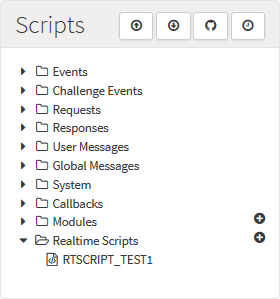
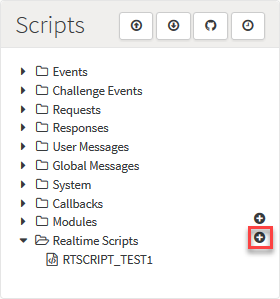
NEW UI Updates

Changed region(s): [[0.8571, 0.7525, 1.0, 0.8729]]

diff --git a/MARKDOWN/Documentation/Configurator/Segments.md b/MARKDOWN/Documentation/Configurator/Segments.md
@@ -9,26 +9,57 @@ src: /Documentation/Configurator/Segments.md
 
 Segments allow you to create partitions for different users and apply various rules to different areas of the platform. Segments offer you an extra dimension of flexibility for customizing player experience and behavior.
 
-## Example
+## Examples
 
-Let's suppose I have an international blockbuster game with players connecting from different parts of the World. In order to offer a more personalized experience for my players, I might want to segment players by region or country. I can create a segment based on country, with segment values of the countries my players are situated in. When added to such a segment, the players will receive a different experience. For example, each segment value (or country in this case) could have different values for virtual goods, the amount of awards they receive upon obtaining an achievement, or the rates of their 6 currencies that spread across their game. What about language? A much simpler and customizable method than Geo Locations would be to introduce a language segment. Based on the users segment values for a language segment, users could receive messages for new high scores, challenges, and team invitations all in their respective native languages, as well as customizing the name and descriptions of Leaderboards, Challenges, Achievements, and so on.
+Here's two example use cases where Segmentation comes in very useful:
 
-## Creating a Segment
+1. Let's suppose I have an international blockbuster game with players connecting from different parts of the World. In order to offer a more personalized experience for my players, I might want to segment players by region or country. I can create a Segment based on country, with Segment Values of the countries my players are situated in. When added to such a Segment, the players will receive a different experience. For example, each Segment Value (or country in this case) could have different values for virtual goods, the amount of awards they receive upon obtaining an achievement, or the rates of their 6 currencies that spread across their game.
+2. What about language? A much simpler and customizable method than Geo Locations would be to introduce a language Segment. Based on the user's Segment Values for a language Segment, users could receive messages for new high scores, challenges, and team invitations all in their respective native languages, as well as customizing the name and descriptions of Leaderboards, Challenges, Achievements, and so on.
+
+## Managing Segment Configurations
+
+To create and edit Segments, go to *Configurator > Segments* and select the *Segments* tab. Existing Segments are listed:
+
+![](img/Segments/7.png)
+
+You can use the following options (highlighted above):
+
+ * *Add* - Add a new Segment.
+ * ![](/img/icons/editicon.png) - Edit Segment.
+ * ![](/img/icons/deleteicon.png) - Delete Segment.
+
+## Creating a Segment and Adding Segment Values
 
 You can create and assign multiple segments, each with their own set of values.
 
-![](img/Segments/1.png)
+*1.* On the *Segments* tab, click *Add*. The page adjusts:
 
-Segments and their respective values can be set within the Segments area:
+![](img/Segments/8.png)
 
-![](img/Segments/2.png)
+*2.* Enter the details of the new Segment:
+* *Short Code* \- A mandatory field used to give the Segment a unique identifier for use elsewhere in the Portal and in Cloud Code.
+* *Name* \- A mandatory field used as an identifier to help find the Segment in the Portal.
+* *Description* \- A mandatory field which should be used to describe the Segment and explain its purpose.
 
+*3.* To add values to the Segment, under *Values* click *Add*.
 
-Not all Segments have to be set in this area. Segments and their values can be set on-the-fly using Cloud Code. For any segment type, a player can have a single value set, and you can set (or unset) these values via Cloud Code using _SparkPlayer.setSegmentValue(TYPE, VALUE)_ or find the current value of a segment they have, using _myPlayer.getSegmentValue("TYPE")_.
+*4.* Enter a *Short Code*, *Name*, and *Description* for each Segment value that you add:
+
+![](img/Segments/9.png)
+
+In this example, we've added 6 Values to our *Country* Segment.
+
+## Setting Segments Using Cloud Code
+
+Not all Segments have to be set in through the Configurator. Segments and their Values can be set on-the-fly using Cloud Code. For any Segment type, a player can have a single Value set, and you can set (or unset) these Values via Cloud Code using _SparkPlayer.setSegmentValue(TYPE, VALUE)_ or find the current Value of a Segment they have, using _myPlayer.getSegmentValue("TYPE")_.
 
 ![](img/Segments/3.png)
 
-Within the portal, you can segment your configuration to set different parameters for different segments. For example, you can have a different price for a virtual good for a particular segment or a different virtual good award and currency reward depending on the country segment you are set to:
+## Segmenting Configuration across the Portal
+
+Within the portal, you can segment your configuration to set different parameters for different Segments. For example, you can have:
+* A different price for a virtual good for a particular Segment.
+* A different virtual good award and currency reward for an Achievement depending on the player's country Segment:
 
 ![](img/Segments/4.png)
 

diff --git a/MARKDOWN/Documentation/Configurator/Integrations.md b/MARKDOWN/Documentation/Configurator/Integrations.md
@@ -7,67 +7,76 @@ src: /Documentation/Configurator/Integrations.md
 
 The Integrations page allows you to integrate with 3rd-party external providers and configure a multitude of external, social authentications within GameSparks platform. The set up process for most Integrations is straightforward - you simply need to enter the *App Id* and the *App Secret* supplied by the external provider for your game.
 
-You can also create and configure system and user credentials from the Integrations pag:
-* [Security Credentials](/Documentation/Configurator/Credentials.md)
+## Managing External Integrations
 
-### Managing External Integrations
+*1.* In the portal, go to *Configurator > Integrations*.
 
-In the portal, go to *Configurator > Integrations* and under *Providers*, click the external provider you want to integrate with your game in GameSparks. For example, Facebook:
+*2.* Click the external provider you want to integrate with your game in GameSparks. For example, Facebook:
 
-![](img/Integrations/11.png)
+![](img/Integrations/12.png)
 
-You can click *Edit* to change the configuration settings for the external provider.
+*3.* Click *Edit* to change the configuration settings for the external provider.
 
 ### Facebook Integration
 
 Facebook Integrations tab allows you to set up [Facebook Authentication](/API Documentation/Request API/Authentication/FacebookConnectRequest.md) for your game, an in-depth tutorial can be found [here](/Tutorials/Social Authentication and Player Profile/Facebook Authentication.md).
 
-![](img/Integrations/2.jpg)
+![](img/Integrations/13.png)
 
 ### Twitter Integration
 
 Twitter Integrations tab allows you to set up [Twitter Authentication](/API Documentation/Request API/Authentication/TwitterConnectRequest.md) for your game, an in-depth tutorial can be found [here](/Tutorials/Social Authentication and Player Profile/Twitter Authentication.md).
 
-![](img/Integrations/3.jpg)
+![](img/Integrations/14.png)
 
 ### Google Plus Integration
 
 Google Integrations tab allows you to set up [Google Plus Authentication](/API Documentation/Request API/Authentication/GooglePlusConnectRequest.md) for your game, an in-depth tutorial can be found [here](/Tutorials/Social Authentication and Player Profile/Google+ Authentication.md).
 
-![](img/Integrations/4.png)
+![](img/Integrations/15.png)
 
 ### Apple Integration
 
 Apple Integrations tab allows configuring [IOS Push Notifications](/Tutorials/Social Features/Configuring iOS Push Notifications.md) as well as [IOS IAPs](/Tutorials/Currencies, Virtual Goods and Achievements/Managing In App purchases.md) for your game.
 
-![](img/Integrations/5.jpg)
+![](img/Integrations/16.png)
 
 ### Microsoft Integration
 
 Microsoft Integrations tab allows configuring [Windows Push Notifications](/Tutorials/Social Features/Configuring Windows Phone Push Notifications.md) as well as [Windows IAPs](/API Documentation/Request API/Store/WindowsBuyGoodsRequest.md) for your game.
 
-![](img/Integrations/6.jpg)
+![](img/Integrations/17.png)
 
 ### Amazon Integration
 
 Amazon Integrations tab allows you to set up [Amazon Authentication](/API Documentation/Request API/Authentication/AmazonConnectRequest.md) as well as Amazon IAPs for your game.
 
-![](img/Integrations/7.jpg)
+![](img/Integrations/18.png)
 
 ### Steam Integration
 
 Steam Integrations tab allows you to set up [Steam Authentication](/API Documentation/Request API/Authentication/SteamConnectRequest.md).
 
-![](img/Integrations/8.jpg)
+![](img/Integrations/19.png)
 
 ### Twitch Integration
 
 Twitch Integrations tab allows you to set up [Twitch Authentication](/API Documentation/Request API/Authentication/TwitchConnectRequest.md), for your game, an in-depth tutorial can be found [here](/Tutorials/Social Authentication and Player Profile/Twitch Authentication.md).
 
-![](img/Integrations/9.png)
+![](img/Integrations/20.png)
 
 ### Kongregate Integration
 
 Kongregate Integrations tab allows you to set up [Kongregate Authentication](/API Documentation/Request API/Authentication/KongregateConnectRequest.md) for your game, an in-depth tutorial can be found [here](/Tutorials/Social Authentication and Player Profile/Kongregate Authentication.md).
 
-![](img/Integrations/10.png)
+![](img/Integrations/21.png)
+
+## Other 3rd Party Integrations
+
+The GameSparks platform can be integrated with four other 3rd-party external providers:
+* PSN
+* Viber
+* WeChat
+* QQ
+
+However, integration with these providers is dealt with on a by-request basis. Please contact [Customer Support](https://support.gamesparks.net/support/home) if you are interested in integrating with any of these providers.

diff --git a/MARKDOWN/Documentation/Configurator/Cloud Code.md b/MARKDOWN/Documentation/Configurator/Cloud Code.md
@@ -12,7 +12,7 @@ The *Scripts* section is split into ten sub-categories, which are further explai
 
 ![](img/CloudCode/17.png)
 
-To access the Cloud Code JavaScript editor select the name of the script from one of the ten drop down menus in the *Scripts* section.  Use the *Delete*, *Close*, and *Save* buttons at the bottom of the editor to manage your scripts:
+To access the Cloud Code JavaScript editor select the name of the script from one of the ten drop down menus in the *Scripts* section.  Use the *Save*, *Close*, and *Delete* buttons at the bottom of the editor to manage your scripts:
 
 ![](img/CloudCode/18.png)
 
@@ -22,16 +22,15 @@ To access the Cloud Code JavaScript editor select the name of the script from on
 
 ## Events
 
-![](img/CloudCode/6.png)
+![](img/CloudCode/27.png)
 
 The *Events* list contains an entry for each Event you have created within the GameSparks platform:
 * When a [LogEventRequest](/API Documentation/Request API/Player/LogEventRequest.md) is received, the corresponding script is executed allowing you to run custom code on the platform. For more details, see [Events](/Documentation/Configurator/Events.md).
 * You can access the current player making the request using *Spark.getPlayer()*.
-* You can quickly create a new Event by clicking the plus ![](/img/fa/plus.png) icon. This opens the same *Create Event* dialog as opened from the [Events](/Documentation/Configurator/Events.md) page.
 
 ## Challenge Events
 
-![](img/CloudCode/7.png)
+![](img/CloudCode/28.png)
 
 The *Challenge Events* list contains an entry for each Event you have created within the GameSparks platform:
 * When a [LogChallengeEventRequest](/API Documentation/Request API/Multiplayer/LogChallengeEventRequest.md) is received, the corresponding script is executed allowing you to run custom code on the platform.
@@ -43,7 +42,6 @@ The *Challenge Events* list contains an entry for each Event you have created wi
 ```
 
 * You can also access the current player making the request using *Spark.getPlayer()*.
-* You can quickly create a new Event by clicking the plus ![](/img/fa/plus.png) icon. See the Events section above for details.
 
 ## Requests
 
@@ -129,7 +127,7 @@ Modules allow you to create your own libraries of JavaScript that can be include
 
 ```
 
-* To create a new module, click the plus ![](/img/fa/plus.png) icon. Then, on the *Create New Module* dialog, enter a *Short Code* to uniquely identify the new module script and click *Add*.
+* To create a new module, click the plus ![](/img/fa/plus-circle.png) icon. Then, on the *Create New Module* dialog, enter a *Short Code* to uniquely identify the new module script and click *Add*.
 
 
 ## Realtime Scripts
@@ -138,7 +136,7 @@ Modules allow you to create your own libraries of JavaScript that can be include
 
 *Realtime Scripts* are listed here:
 * You can link Realtime scripts to a Match configuration in the Multiplayer Section so that when a Match is found, the arbitrary Cloud Code script that communicates with the Real-Time client is triggered.
-* To create a new Realtime script, click the plus ![](/img/fa/plus.png) icon.
+* To create a new Realtime script, click the plus ![](/img/fa/plus-circle.png) icon.
 * For more details on Realtime Services, see [here](/Tutorials/Real-Time Services/README.md).
 
 ## Cloud Code Editor Keyboard Shortcuts

diff --git a/MARKDOWN/Documentation/GameSparks Real-Time/README.md b/MARKDOWN/Documentation/GameSparks Real-Time/README.md
@@ -15,7 +15,7 @@ Our real-time services provide a network communication layer with the capability
 
 * **Lightweight and Flexible SDK.** A very lightweight SDK gives you, the developer, tight control over what is sent and received:
   * Wide flexibility on what data you send and how you wish to send the data.
-  * Data packets an be kept as small as possible making transmission much more efficient.
+  * Data packets can be kept as small as possible making transmission much more efficient.
 
 * **GameSparks Real-Time Server** Designed specifically for real-time games:
   * Low latency socket server supporting high throughput and low transmission sizes.
